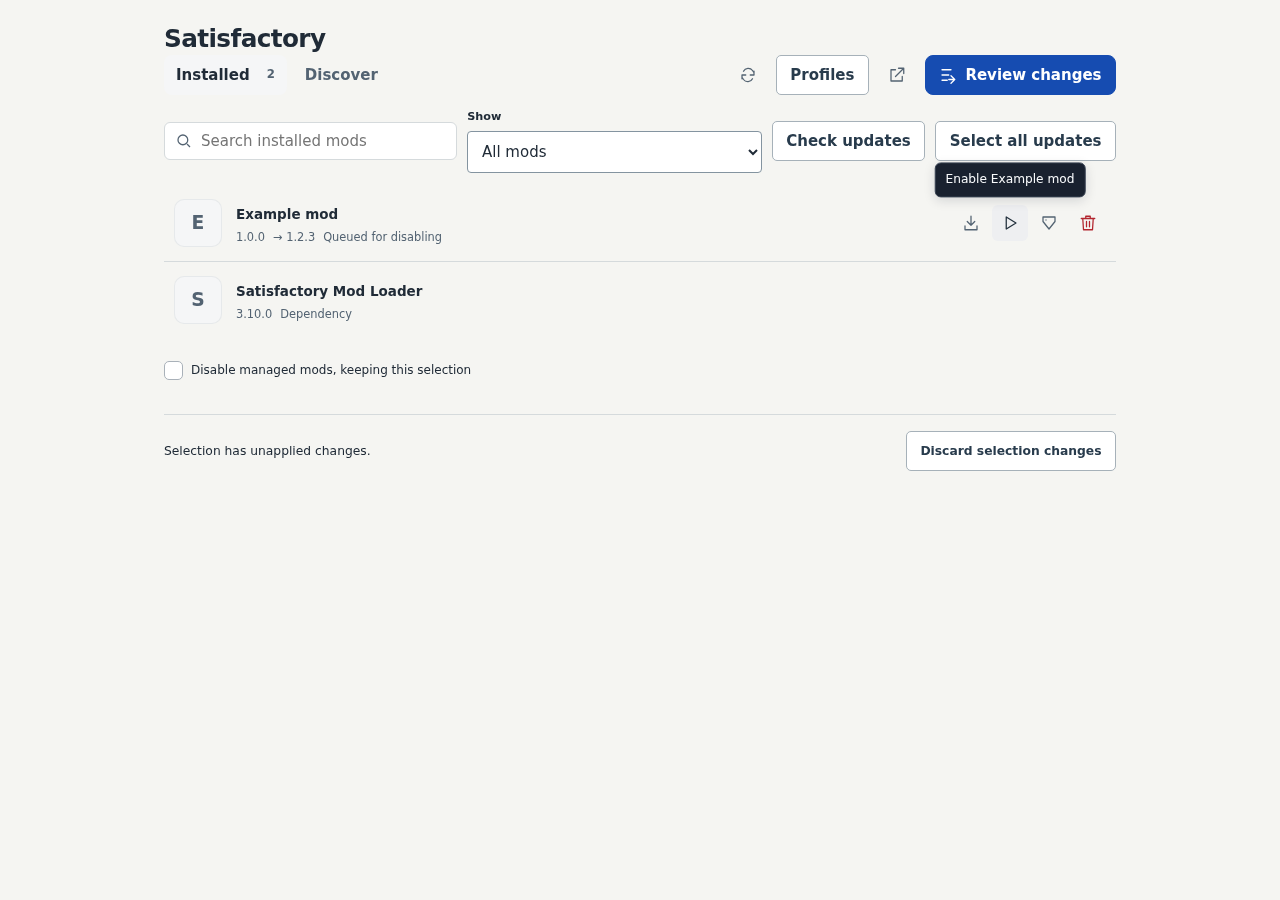
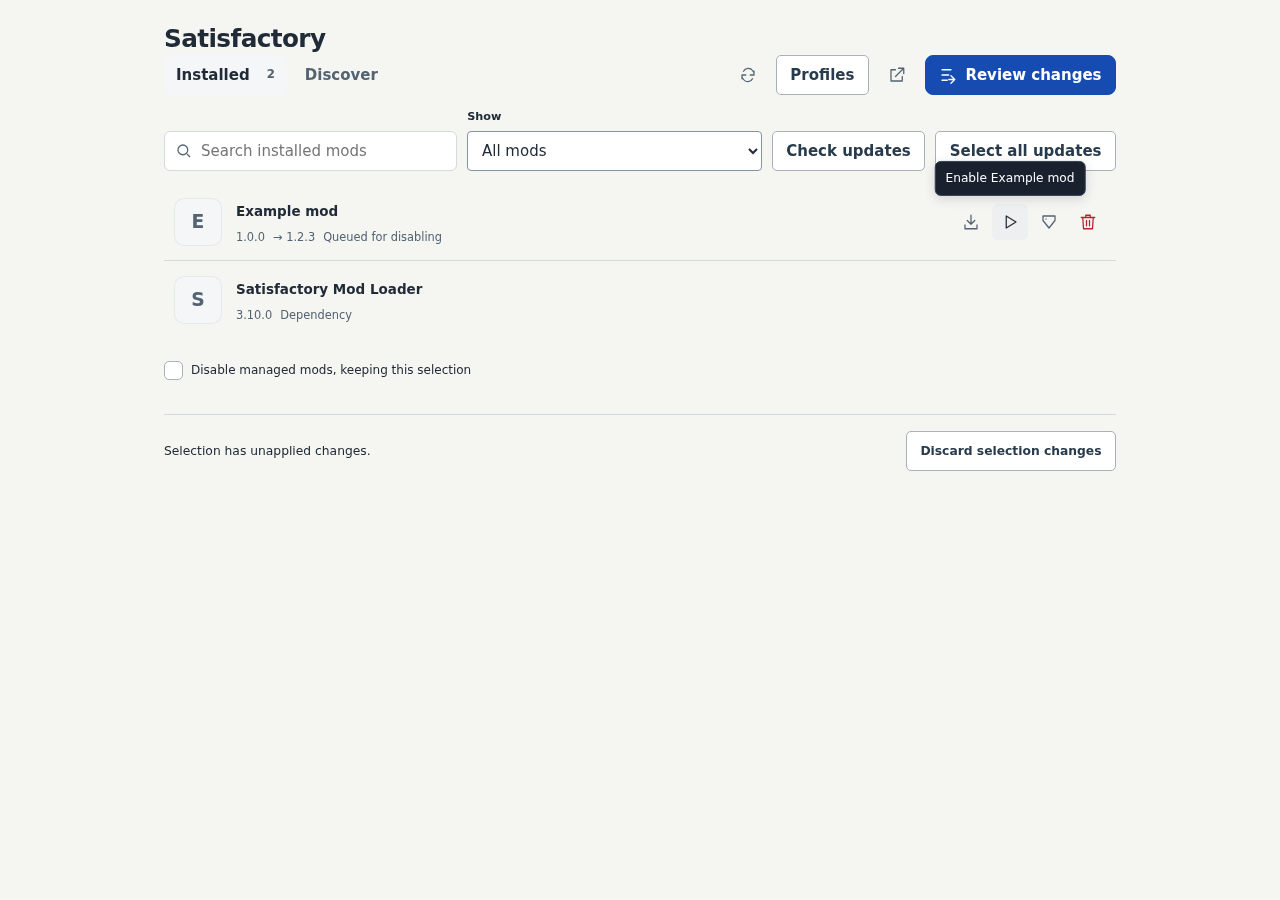
fix(satisfactory): clarify mod selection and align installed controls

diff --git a/apps/web/tests/satisfactory-mods.browser.test.ts b/apps/web/tests/satisfactory-mods.browser.test.ts
@@ -603,6 +603,14 @@ it('stages updates and disabled choices, keeps failed requests retryable with th
   await page.getByRole('button', { name: 'Check updates', exact: true }).click();
   await page.getByRole('button', { name: 'Select all updates', exact: true }).click();
   await page.getByRole('button', { name: 'Disable Example mod', exact: true }).click();
+  const controlBottoms = await page
+    .locator('.mods-search-toolbar')
+    .evaluate((toolbar) =>
+      [...toolbar.querySelectorAll('.workspace-search, select, :scope > button')].map(
+        (control) => control.getBoundingClientRect().bottom,
+      ),
+    );
+  expect(Math.max(...controlBottoms) - Math.min(...controlBottoms)).toBeLessThanOrEqual(1);
   await page.screenshot({ path: `${shots}/satisfactory-mods-installed-en.png`, fullPage: true });
   await page.getByRole('button', { name: 'Review changes', exact: true }).click();
   await check(
@@ -885,6 +893,87 @@ it('loads imported minimum-version constraints and submits explicit version poli
   await check(page.getByText('No mod file changes are required.', { exact: true })).toBeVisible();
   expect(previews).toMatchObject([
     { selection: [{ reference: 'Example', version: '1.2.3', enabled: true }] },
+  ]);
+  await context.close();
+});
+
+it('selects multiple mods with leading checkboxes and latest compatible minimum versions', async () => {
+  const context = await browser.newContext({ viewport: { width: 1280, height: 900 } });
+  const page = await context.newPage();
+  const previews: unknown[] = [];
+  await page.route('**/v1/**', async (route) => {
+    const path = new URL(route.request().url()).pathname;
+    if (path.endsWith('/catalog'))
+      return route.fulfill({
+        json: {
+          total: 2,
+          items: [
+            exampleProject,
+            { ...exampleProject, id: 'second', reference: 'Second', name: 'Second mod' },
+          ],
+        },
+      });
+    if (path.includes('/versions/'))
+      return route.fulfill({
+        json: [
+          { ...exampleVersion, version: '3.0.0', compatibility: 'incompatible' },
+          { ...exampleVersion, version: '2.0.0' },
+          exampleVersion,
+        ],
+      });
+    if (path.endsWith('/inventory')) return route.fulfill({ json: emptyInventory() });
+    if (path.endsWith('/preview')) {
+      previews.push(route.request().postDataJSON());
+      return route.fulfill({ status: 202, json: { jobId: 'multi-job', planId: 'multi-plan' } });
+    }
+    if (path.includes('/plans/'))
+      return route.fulfill({ json: { id: 'multi-plan', status: 'pending', revision: 0 } });
+    return route.fulfill({ json: emptySnapshot() });
+  });
+  await page.goto(`${origin}satisfactory-fixture`);
+  await page.getByRole('button', { name: 'Discover', exact: true }).first().click();
+  const first = page.getByRole('checkbox', { name: 'Select Example mod', exact: true });
+  const second = page.getByRole('checkbox', { name: 'Select Second mod', exact: true });
+  await first.click();
+  await check(first).toBeChecked();
+  await second.click();
+  await check(second).toBeChecked();
+  await check(first).toBeChecked();
+  await check(page.getByRole('dialog')).toHaveCount(0);
+  await first.uncheck();
+  await check(first).not.toBeChecked();
+  await check(second).toBeChecked();
+  await first.click();
+  await check(first).toBeChecked();
+  for (const width of [1280, 390]) {
+    await page.setViewportSize({ width, height: 900 });
+    const position = await page
+      .locator('.mods-project')
+      .first()
+      .evaluate((row) => {
+        const checkbox = row.querySelector('.mods-checkbox')?.getBoundingClientRect();
+        const artwork = row.querySelector('.mods-artwork')?.getBoundingClientRect();
+        if (!checkbox || !artwork) throw new Error('Missing mod selection controls');
+        return { checkboxRight: checkbox.right, artworkLeft: artwork.left };
+      });
+    expect(position.checkboxRight).toBeLessThanOrEqual(position.artworkLeft);
+    expect(await page.evaluate(() => document.documentElement.scrollWidth <= innerWidth)).toBe(
+      true,
+    );
+    await page.screenshot({
+      path: `${shots}/satisfactory-mods-multiselect-${width}.png`,
+      fullPage: true,
+    });
+  }
+  await page.getByRole('button', { name: 'Review changes', exact: true }).click();
+  await check(page.locator('body')).toHaveAttribute('data-job', 'multi-job');
+  expect(previews).toMatchObject([
+    {
+      selection: [
+        { reference: 'Second', version: '>=2.0.0', enabled: true },
+        { reference: 'Example', version: '>=2.0.0', enabled: true },
+      ],
+    },
   ]);
   await context.close();
 });

diff --git a/apps/web/src/integrations/satisfactory/mods.tsx b/apps/web/src/integrations/satisfactory/mods.tsx
@@ -664,19 +664,6 @@ function ModsWorkspace(props: GameSectionViewProps) {
                     undefined
                   }
                 >
-                  <button type="button" className="mods-project-open" onClick={() => choose(item)}>
-                    <ModsArtwork image={item.logo ?? undefined} name={item.name} />
-                    <span className="mods-project-copy">
-                      <span className="mods-project-title">
-                        <strong>{item.name}</strong>
-                      </span>
-                      <span className="mods-project-summary">{item.description}</span>
-                      <span className="satisfactory-mod-meta">
-                        {item.authors?.join(', ')}
-                        {item.tags?.length ? ` · ${item.tags.join(' · ')}` : ''}
-                      </span>
-                    </span>
-                  </button>
                   <ModsCheckbox
                     compact
                     label={t(key('selectMod'), { name: item.name })}
@@ -697,7 +684,7 @@ function ModsWorkspace(props: GameSectionViewProps) {
                           if (recommended)
                             replace({
                               reference: item.reference,
-                              version: recommended.version,
+                              version: `>=${recommended.version}`,
                               enabled: true,
                             });
                           else choose(item);
@@ -711,6 +698,19 @@ function ModsWorkspace(props: GameSectionViewProps) {
                         });
                     }}
                   />
+                  <button type="button" className="mods-project-open" onClick={() => choose(item)}>
+                    <ModsArtwork image={item.logo ?? undefined} name={item.name} />
+                    <span className="mods-project-copy">
+                      <span className="mods-project-title">
+                        <strong>{item.name}</strong>
+                      </span>
+                      <span className="mods-project-summary">{item.description}</span>
+                      <span className="satisfactory-mod-meta">
+                        {item.authors?.join(', ')}
+                        {item.tags?.length ? ` · ${item.tags.join(' · ')}` : ''}
+                      </span>
+                    </span>
+                  </button>
                 </li>
               ))}
             </ul>

diff --git a/apps/web/src/integrations/satisfactory/mods.css b/apps/web/src/integrations/satisfactory/mods.css
@@ -28,6 +28,12 @@
 }
 .satisfactory-mods .mods-search-toolbar {
   margin-top: 14px;
+  align-items: flex-end;
+}
+.satisfactory-mods .mods-search-toolbar .workspace-search,
+.satisfactory-mods .mods-search-toolbar select,
+.satisfactory-mods .mods-search-toolbar > button {
+  min-height: 40px;
 }
 :where(.satisfactory-mods .mods-search-toolbar) .field {
   margin: 0;
@@ -49,13 +55,25 @@
   overflow: hidden;
 }
 .satisfactory-installed-row {
+  display: grid;
+  grid-template-columns: auto minmax(0, 1fr) auto;
   gap: 14px;
   padding: 14px 10px;
   border-bottom: 1px solid var(--line);
 }
 .satisfactory-mod-copy {
-  flex: 1;
+  display: flex;
+  flex-direction: column;
+  align-items: flex-start;
+  gap: 4px;
   min-width: 0;
+}
+.satisfactory-installed-row .mods-installed-actions {
+  justify-content: flex-end;
+  flex-wrap: wrap;
+}
+.satisfactory-installed-row .mods-installed-actions:empty {
+  display: none;
 }
 .satisfactory-mods button.satisfactory-name {
   padding: 0;
@@ -193,20 +211,20 @@
   .satisfactory-mods .mods-header-actions {
     gap: 6px;
   }
-  .satisfactory-mods .mods-search-toolbar {
-    align-items: end;
-  }
   .satisfactory-mods .mods-search-toolbar .workspace-search {
     width: 100%;
     max-width: none;
     flex-basis: 100%;
   }
   .satisfactory-installed-row {
+    grid-template-columns: auto minmax(0, 1fr);
+    align-items: start;
     gap: 10px;
-    flex-wrap: wrap;
   }
   .satisfactory-installed-row .mods-installed-actions {
-    margin-left: auto;
+    grid-column: 2;
+    justify-self: end;
+    margin: 0;
   }
   .satisfactory-mods .mods-project {
     padding-inline: 0;

diff --git a/docs/M6-SATISFACTORY.md b/docs/M6-SATISFACTORY.md
@@ -726,3 +726,27 @@ passed 12 API/external-mode cases, 17 worker/inventory cases, 34 targeted domain
 unit cases, nine browser journeys and two upstream ficsit/SFTP cases. These suites
 overlap and their counts must not be summed. Independent code and visual reviewers
 reported no open must-fix findings.
+
+
+### Mod selection and Installed alignment
+
+Discovery checkboxes precede the mod artwork/name in both visual and keyboard
+order. Quick selection stages the latest compatible stable version as a minimum
+(`>=version`), allowing that release or later versions; explicit version/policy
+selection remains available in the mod dialog. Multiple choices remain in the same
+draft until the existing resolved review/apply flow runs.
+
+Installed search, filter and action controls share a bottom baseline. Mod rows use
+separate artwork/content/action columns; narrow layouts put actions below the name
+and metadata. Browser regression checks cover multiple selections, deselection,
+submitted minimum constraints, leading checkbox geometry on desktop/mobile and
+Installed control alignment. All ten browser cases passed across the suite and the
+scoped new-case rerun. Web/application-test TypeScript, frontend build and lint
+passed (existing lint warnings and bundle-size notices remain). Independent code
+and screenshot review found no open issues. The actual dev UI was checked
+read-only: inventory/catalog HTTP 200, checkbox before artwork, no page errors or
+horizontal overflow. No migration, service restart, game-file/power mutation or
+Pterodactyl/Blueprint change was needed.
+
+- [Multiple selection, desktop](screenshots/m6/satisfactory-mods-multiselect-1280.png)
+- [Multiple selection, mobile](screenshots/m6/satisfactory-mods-multiselect-390.png)
